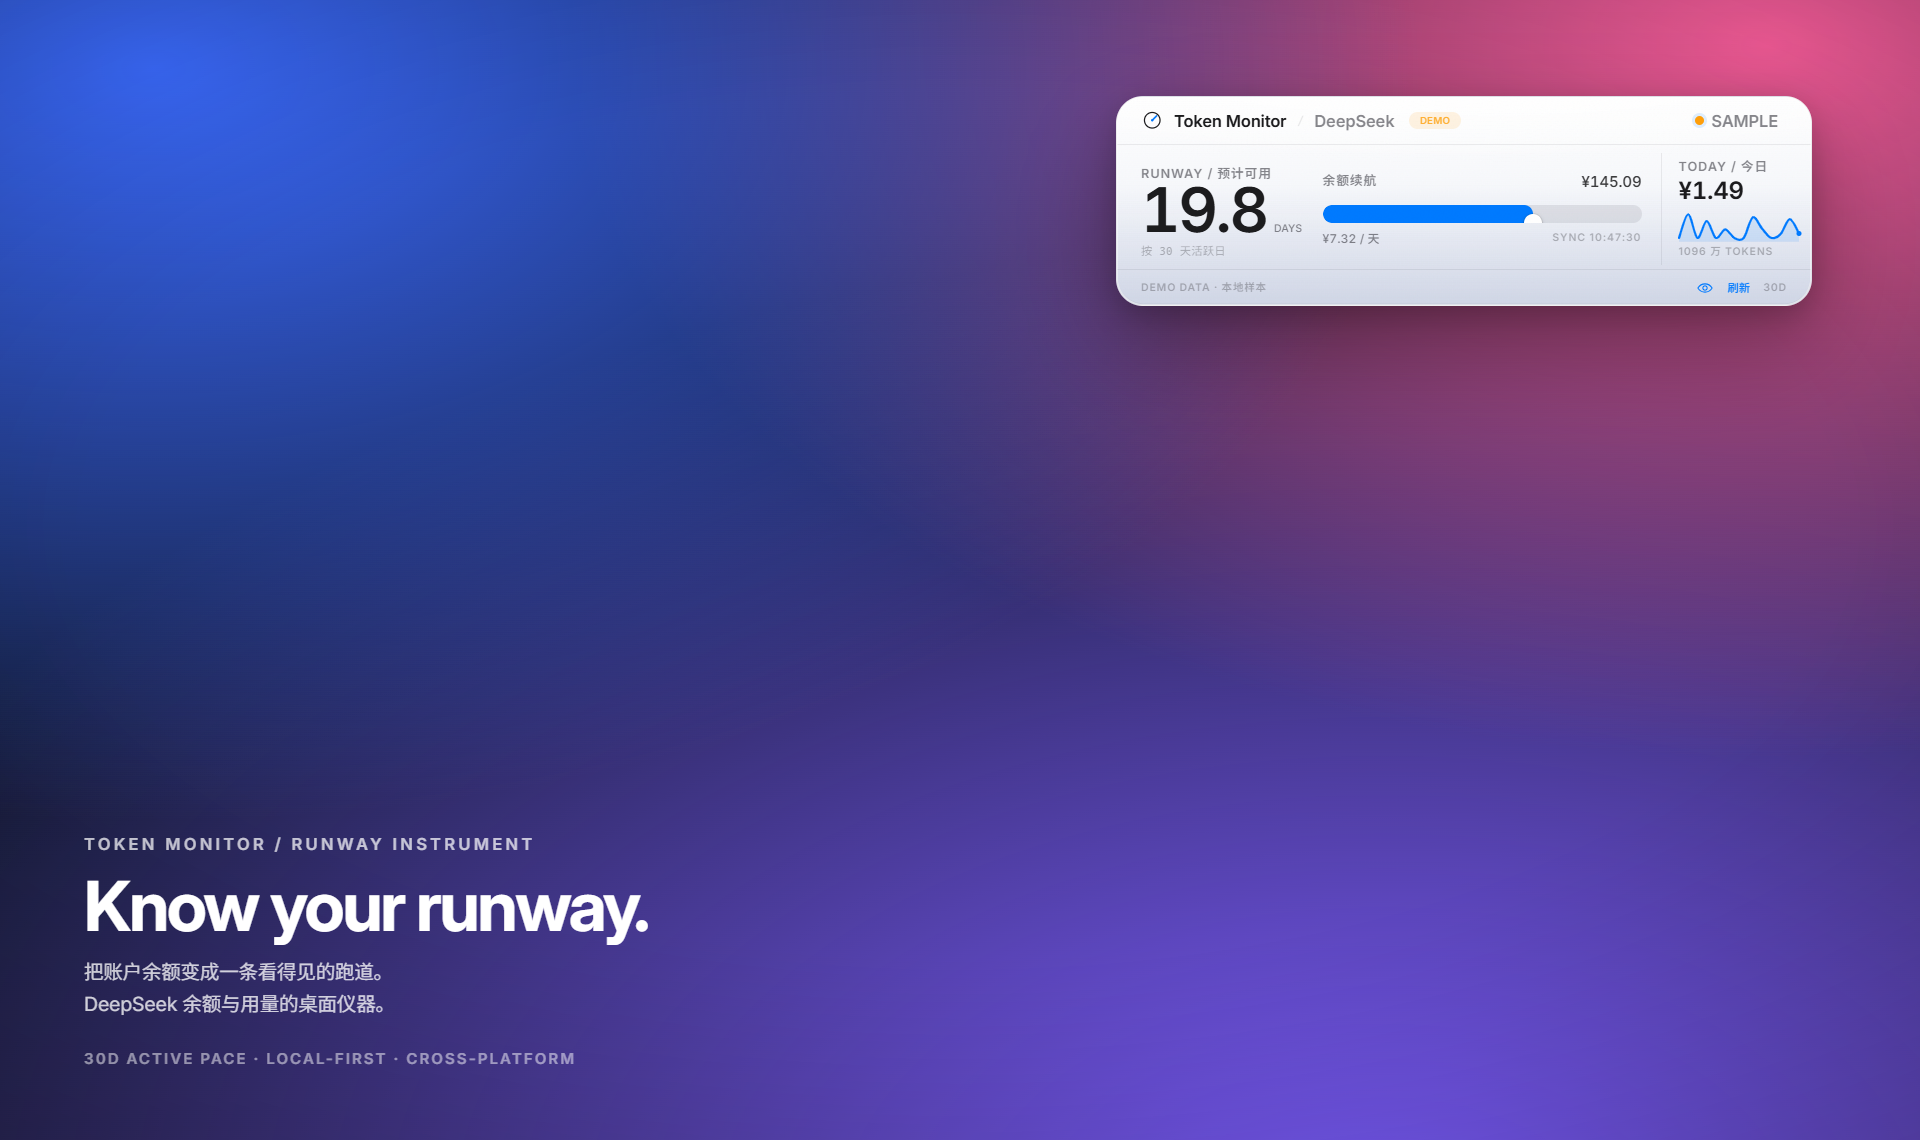
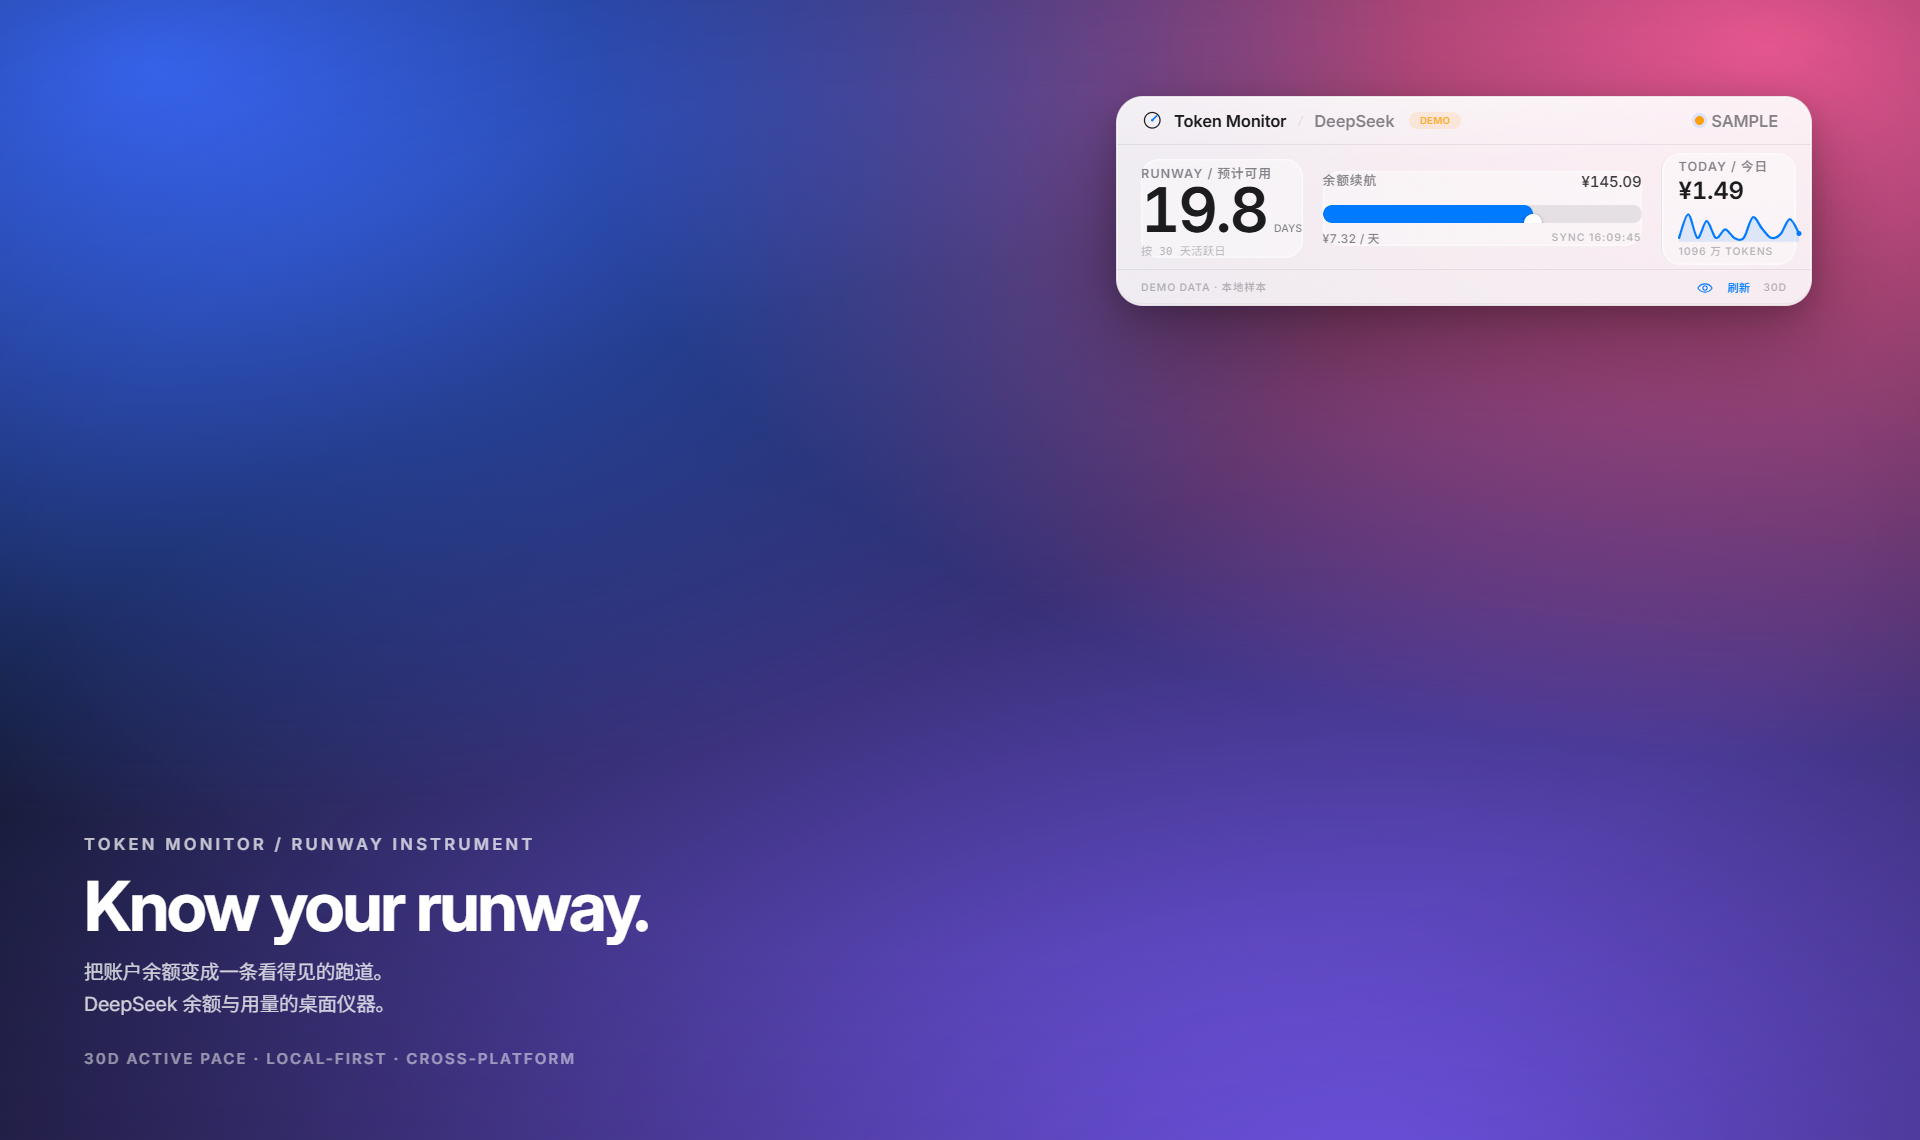
Set the glass at the point where it still reads, and lift what sits on it
The fully translucent card failed the only test that matters: over a pink
wallpaper the micro labels lost contrast and the card read as tinted paper. The
tint is now 0.9 light / 0.88 dark — high on purpose. Without a real blur behind
the window, transparency and legibility trade directly; this is the point on
that curve where the desktop still colours the card and every figure is still
readable.

The second level is new: the runway, the gauge, today, the hero, the chart and
the mix each sit on a thin sheet (a 0.42 light film, an inset hairline, no
padding), so readings have a surface of their own instead of hanging over the
tint. Surfaces that sit above the glass were lifted one step cooler (--paper-2/
--paper-3) so a pure-white chip no longer reads as a sticker pasted on the card.

The top-edge bloom stays; the old bottom depth wash is gone, because through a
tint it dims toward the bottom and reads as paper again. The grain layer, which
was switched off and is why the surface used to look flat, is back at 0.05/0.06.

Comments now state the tradeoff and the one dial (--glass-base) instead of
describing the previous opaque frost. Screenshots regenerated in Chinese.

Changed region(s): [[0.5625, 0.1842, 0.9688, 0.2763]]

diff --git a/renderer/styles.css b/renderer/styles.css
@@ -27,9 +27,13 @@
 
 :root {
   /* Apple system surfaces */
+  /* Surfaces that sit ON the glass. These used to be opaque whites because the
+     card below them was opaque; now the card is a 0.9 tint, so a pure-white
+     chip reads as a sticker pasted on the card. One step cooler, and only as
+     light as the sheet they sit on. */
   --paper: #ffffff;
-  --paper-2: #f2f2f7;
-  --paper-3: #e9e9ee;
+  --paper-2: #f6f7fb;
+  --paper-3: #eceef4;
   --ink: #1c1c1e;
   --ink-2: #3a3a3c;
   --muted: rgba(60, 60, 67, 0.62);
@@ -49,16 +53,19 @@
   --panel-edge: rgba(0, 0, 0, 0.06);
   --panel-highlight: rgba(255, 255, 255, 0.9);
   --shadow: 0 0 0 0.5px rgba(0, 0, 0, 0.05), 0 2px 4px rgba(0, 0, 0, 0.05), 0 6px 14px rgba(0, 0, 0, 0.09);
-  /* The frost: a pane is not one colour. Light enters along the top edge, the
-     body of the glass is a milky cool white rather than paper white, and the
-     depth gathers toward the bottom where the pane thickens over the desk. */
-  --frost-light: #ffffff;
-  --frost-body: #f4f6fa;
-  --frost-deep: #e9ecf3;
-  --frost-bloom: rgba(255, 255, 255, 0.98);
-  --frost-depth: rgba(120, 136, 184, 0.22);
-  --frost-rim: rgba(60, 60, 67, 0.08);
-  --grain-opacity: 0.07;
+  /* Glass, and it has to be glass: the window is transparent and the desktop
+     really is behind this card, so the card is a tint over it rather than a
+     painted sheet. A milky gradient with full opacity — the previous pass —
+     is paper: nothing can show through it. Apple's own answer to the
+     readability tension in iOS 26.1 was a choice between transparent and
+     tinted; these are the glass values, and --glass-base is the one dial that
+     a tinted mode would raise. */
+  --glass-base: rgba(255, 255, 255, 0.9);
+  --glass-sheet: rgba(255, 255, 255, 0.42);
+  --glass-sheet-edge: rgba(255, 255, 255, 0.55);
+  --glass-bloom: rgba(255, 255, 255, 0.5);
+  --frost-rim: rgba(60, 60, 67, 0.1);
+  --grain-opacity: 0.05;
   --stage-caption: #ffffff;
   --stage-muted: rgba(255, 255, 255, 0.72);
   --serif: var(--sans);
@@ -69,9 +76,11 @@
 }
 
 body.theme-dark {
-  --paper: #1c1c1e;
-  --paper-2: #2c2c2e;
-  --paper-3: #3a3a3c;
+  /* The same lift in smoke: surfaces are a touch lighter than the glass under
+     them, which is what makes the layering visible over a dark wallpaper. */
+  --paper: #202024;
+  --paper-2: #2b2b30;
+  --paper-3: #3a3a40;
   --ink: #ffffff;
   --ink-2: #ebebf5;
   --muted: rgba(235, 235, 245, 0.6);
@@ -90,16 +99,14 @@ body.theme-dark {
   --panel-edge: rgba(255, 255, 255, 0.08);
   --panel-highlight: rgba(255, 255, 255, 0.08);
   --shadow: 0 0 0 0.5px rgba(255, 255, 255, 0.06), 0 2px 6px rgba(0, 0, 0, 0.35), 0 8px 16px rgba(0, 0, 0, 0.3);
-  /* The same pane smoked: the top catches a reflection of the room rather than
-     light through it, the body is charcoal with a blue cast, and the grain reads
-     brighter because screen blending scatters less per pixel over a dark field. */
-  --frost-light: #26262a;
-  --frost-body: #1f1f22;
-  --frost-deep: #141416;
-  --frost-bloom: rgba(255, 255, 255, 0.12);
-  --frost-depth: rgba(0, 0, 0, 0.45);
+  /* The same glass, smoked. The sheet is a light film over the tint rather than
+     a second colour, so the two levels stay visible over a dark wallpaper. */
+  --glass-base: rgba(20, 20, 22, 0.88);
+  --glass-sheet: rgba(255, 255, 255, 0.05);
+  --glass-sheet-edge: rgba(255, 255, 255, 0.09);
+  --glass-bloom: rgba(255, 255, 255, 0.07);
   --frost-rim: rgba(255, 255, 255, 0.06);
-  --grain-opacity: 0.09;
+  --grain-opacity: 0.06;
 }
 
 * {
@@ -234,9 +241,25 @@ select,
   z-index: -1;
   border-radius: inherit;
   pointer-events: none;
-  background:
-    radial-gradient(140% 70% at 50% -12%, var(--frost-bloom) 0%, rgba(255, 255, 255, 0) 62%),
-    linear-gradient(180deg, rgba(255, 255, 255, 0) 42%, var(--frost-depth) 100%);
+  /* Light entering along the top edge only. A bottom "depth" wash was right
+     for an opaque sheet and wrong here: through it the wallpaper dims toward
+     the bottom and the card reads as tinted paper again. */
+  background: radial-gradient(140% 70% at 50% -12%, var(--glass-bloom) 0%, rgba(255, 255, 255, 0) 62%);
+}
+
+/* The second level: the instruments sit on their own thin sheets, so a reading
+   has a surface of its own instead of hanging over the wallpaper. Paint only —
+   an inset ring rather than a border, and no padding — because every block
+   here has a measured size and the text-fitting gates are built on it. */
+.strip-runway,
+.strip-scale,
+.strip-today,
+.hero,
+.chart-section,
+.mix-section {
+  background: var(--glass-sheet);
+  box-shadow: inset 0 0 0 1px var(--glass-sheet-edge);
+  border-radius: 12px;
 }
 
 .panel::before {
@@ -2383,22 +2406,28 @@ body {
 
 /* ── material ─────────────────────────────────────────────── */
 
-/* Frosted glass, drawn rather than borrowed.
-   The window is transparent and the card is the page's top surface: there is
-   nothing behind it to blur, so backdrop-filter would blur nothing, and letting
-   the desktop through would make the interface read as whatever wallpaper happens
-   to be behind it — per platform, per moment, per user. So the frost is built
-   from what a thick pane does to light instead: a bright band where light enters
-   along the top edge, a milky cool body that is not paper white (a bloom over
-   pure white is invisible, which is why this whole surface used to look flat),
-   depth that gathers toward the bottom, a hairline rim all round, and a grain
-   fine enough to scatter the flat fields without dirtying the text.
-   All of it is paint, so it is the same picture on Windows, macOS and Linux. */
+/* Tinted glass, drawn rather than borrowed.
+   The window is transparent and the card is the page's top surface. There is
+   nothing behind the card for backdrop-filter to blur — the desktop is behind
+   the *window*, and a page cannot sample it — so the material has to be made of
+   light instead. Three parts: a translucent tint (--glass-base) that lets the
+   desktop colour through just enough to belong to the scene; a set of thin
+   sheets (--glass-sheet) that carry every reading, so numbers sit on their own
+   surface rather than directly on the tint; and a hairline rim plus one bloom
+   along the top edge where light enters. A little grain keeps the flat fields
+   from reading as plastic. All of it is paint, so the picture is the same on
+   Windows, macOS and Linux.
+   The tint is deliberately high (0.9 light / 0.88 dark). A fully transparent
+   pane was tried and failed the only test that matters: over a pink wallpaper
+   the micro labels lost contrast and the card read as tinted paper. Without a
+   real blur, transparency and legibility trade directly; this is the point on
+   that curve where the card still belongs to the desktop and every figure is
+   still readable. Platforms that can lend a system material can raise the tint
+   without touching anything else — --glass-base is the single dial. */
 .panel {
   border-radius: 18px;
   border: 1px solid var(--panel-edge);
-  background: linear-gradient(180deg, var(--frost-light) 0%, var(--frost-body) 55%, var(--frost-deep) 100%);
-  box-shadow: 0 1px 2px rgba(0, 0, 0, 0.05), 0 8px 28px rgba(0, 0, 0, 0.11);
+  background: var(--glass-base);
 }
 
 body.theme-dark .panel {
